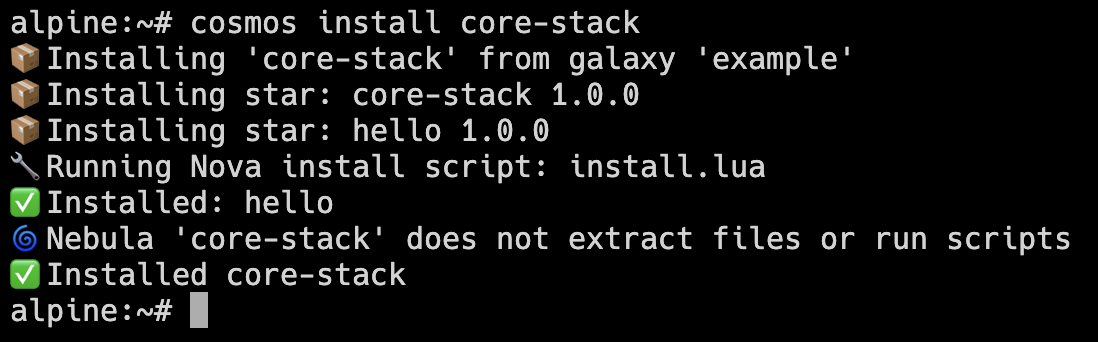
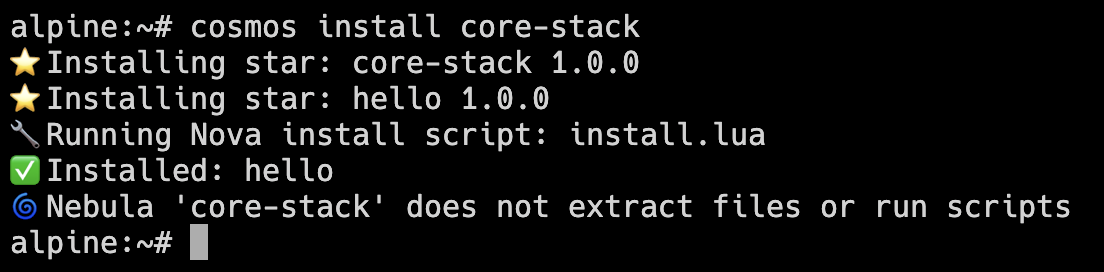
download the star file if we have to

Changed region(s): [[0.0, 0.4412, 0.9909, 0.9412], [0.0, 0.0294, 0.6193, 0.4412], [0.6503, 0.1176, 0.7741, 0.2059]]

diff --git a/cosmos-core/src/galaxy.rs b/cosmos-core/src/galaxy.rs
@@ -135,36 +135,59 @@ impl Galaxy {
         let stars_path = galaxy_path.join("stars");
         let mut stars = HashMap::new();
 
-        for entry in fs::read_dir(&stars_path)? {
-            let entry = entry?;
-            let path = entry.path();
-
-            if path.extension().and_then(|e| e.to_str()) == Some("toml") {
-                let content = fs::read_to_string(&path)?;
-                match toml::from_str::<Star>(&content) {
-                    Ok(star) => {
-                        if let Some(declared) = &meta.stars {
-                            if let Some(expected_ver) = declared.get(&star.name) {
-                                if &star.version != expected_ver {
-                                    eprintln!(
-                                        "⚠  Version mismatch: {} expected {}, got {}",
-                                        star.name, expected_ver, star.version
-                                    );
-                                    continue;
-                                }
+        // fill stars with meta.stars first
+        if let Some(declared) = &meta.stars {
+            for (name, version) in declared.iter() {
+                let star_path = stars_path.join(format!("{}.toml", name));
+                if star_path.exists() {
+                    let content = fs::read_to_string(&star_path)?;
+                    match toml::from_str::<Star>(&content) {
+                        Ok(star) => {
+                            if &star.version == version {
+                                stars.insert(star.name.clone(), star);
+                            } else {
+                                eprintln!(
+                                    "⚠  Version mismatch: {} expected {}, got {}",
+                                    name, version, star.version
+                                );
                             }
                         }
-                        stars.insert(star.name.clone(), star);
+                        Err(err) => {
+                            eprintln!("❌ Could not parse star file '{}': {}", star_path.display(), err);
+                        }
                     }
-                    Err(err) => {
-                        eprintln!("❌ Could not parse star file '{}': {}", path.display(), err);
-                        continue;
+                } else {
+                    // we need to download the star file from remote
+                    if let Some(url) = &url {
+                        let star_url = format!("{}/stars/{}.toml", url.trim_end_matches('/'), name);
+                        let star_dest = stars_path.join(format!("{}.toml", name));
+                        Self::download_file(&star_url, &star_dest)?;
+                        let content = fs::read_to_string(&star_dest)?;
+                        match toml::from_str::<Star>(&content) {
+                            Ok(star) => {
+                                if &star.version == version {
+                                    stars.insert(star.name.clone(), star);
+                                } else {
+                                    eprintln!(
+                                        "⚠  Version mismatch: {} expected {}, got {}",
+                                        name, version, star.version
+                                    );
+                                }
+                            }
+                            Err(err) => {
+                                eprintln!("❌ Could not parse downloaded star file '{}': {}", star_dest.display(), err);
+                            }
+                        }
                     }
                 }
             }
         }
 
-        Ok(Galaxy { name, url, stars })
+        Ok(Galaxy {
+            name,
+            url,
+            stars,
+        })
     }
 
     pub fn sync_all_from_config(config: &Config, level: SyncLevel) -> Result<(), GalaxyError> {
@@ -234,11 +257,9 @@ impl Galaxy {
                         let filename = format!("{}-{}.tar.gz", star.name, star.version);
                         let tar_dest = packages_dir.join(filename);
                         Self::download_file(source, &tar_dest)?;
-                    }
-                    else if source.starts_with("file://") || Path::new(source).exists() {
+                    } else if source.starts_with("file://") || Path::new(source).exists() {
                         println!("⭐ Local source detected for star '{}'", star.name);
-                    }
-                    else {
+                    } else {
                         eprintln!("⚠  Unsupported source format for star '{}'", star.name);
                     }
                 }
